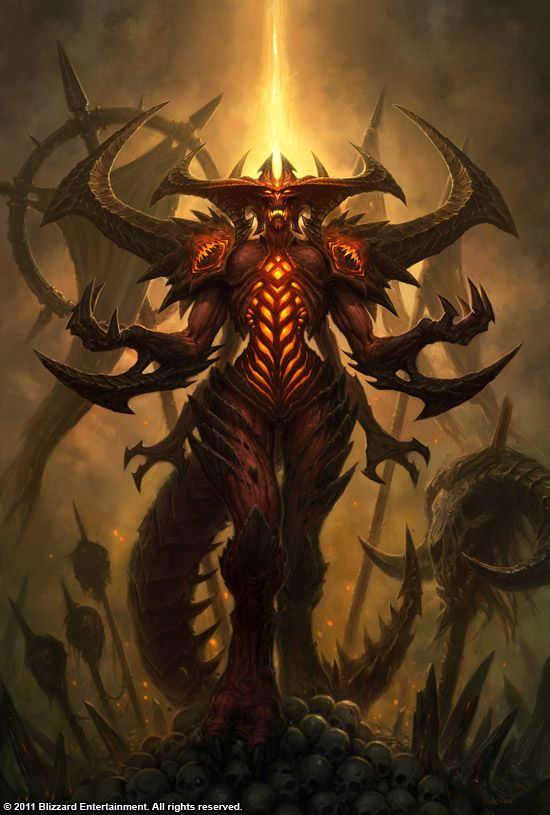
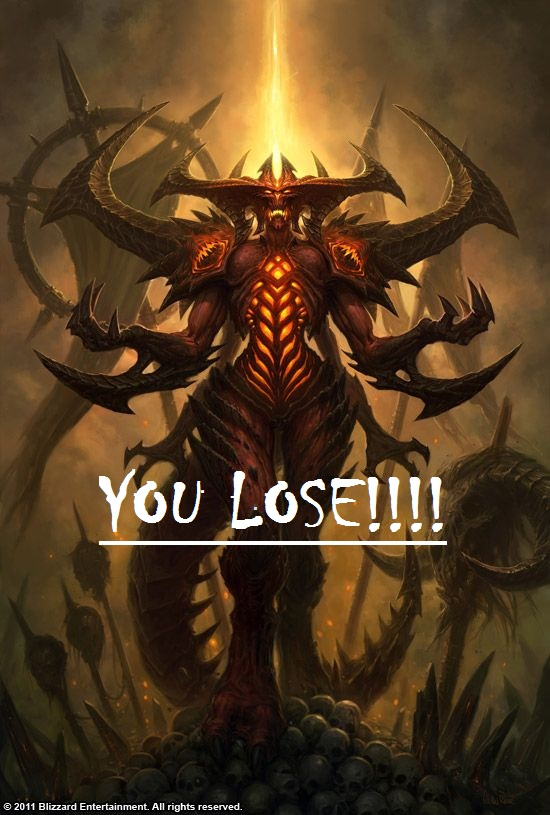
added more js, not working

Changed region(s): [[0.1855, 0.5828, 0.8036, 0.6748]]

diff --git a/assets/javascript/game.js b/assets/javascript/game.js
@@ -16,7 +16,7 @@ var remainingLetters = nextWord.length;
 
 // Sets the number of total guesses you have
 var guessTotal = nextWord.length + 5;
-document.querySelector(".guess-remaining").innerHTML = guessTotal;
+document.querySelector("#guess-remaining").innerHTML = guessTotal;
 // Sets up an array of underlines equal to the length of nextWord
 var answerArray = [];
 for (i = 0; i < nextWord.length; i++) {
@@ -29,35 +29,42 @@ for (i = 0; i < nextWord.length; i++) {
 
 
   // Will loop as long as there are letters unguessed in nextWord
-  if (remainingLetters > 0 && guessLetters.length < guessTotal) {
   
-  function keyPress(logAnswer) {
+function keyPress() {
     // Determines which key was pressed
     document.onkeyup = function (event) {
       var userGuess = event.key.toUpperCase();
+      
       // Checks if guess is in nextWord and if it is then add it to our answer and subtract from the remaining letters to guess
       for (var j = 0; j < nextWord.length; j++) {
         if (nextWord[j] === userGuess) {
-          answerString[j].push(userGuess);
+          answerArray[j] = userGuess;
           remainingLetters--;
-        }
-        else {
-          // Add incorrect guesses to an array
-          guessLetters.push(userGuess);
-        }
+        }   
       }
-      console.log(userGuess);
       guessTotal--;
-      console.log(guessTotal); 
+      guessLetters.push(userGuess);
     }
-  }
+  
   console.log(remainingLetters);
   console.log(answerArray);
   console.log(guessLetters);
+
+ /* if (remainingLetters < 1) {
+    document.getElementById("current-word").innerHTML = answerString;
+    wins++
+    document.querySelector("#win-total").innerHTML = wins;
+  }
+
+  else if (guessTotal < 1) {
+    var wrapper = document.querySelector(".wrapper");
+    wrapper.setAttribute("src", "../images/diablo.jpg");
+  }
+
+  else {
+    document.getElementById("current-word").innerHTML = answerString;
+    document.querySelector("#guess-letters").innerHTML = guessLetters.join(" ");
+  }*/
 }
 
 keyPress();
-// Will use to make first letter uppercase
-function capitalizeFirstLetter(string) {
-  return string.charAt(0).toUpperCase() + string.slice(1);
-}

diff --git a/index.html b/index.html
@@ -16,15 +16,16 @@
       <h2 class="text-center mb-0" id="diablo">Diablo</h2>
       <h1 class="text-center" id="hangman">HANGMAN</h1>
     </div>
-    <div class="container">
+    <div class="container" id="game">
       <p class="text-center mt-5">PRESS ANY KEY TO GET STARTED!</p>
       <p class="text-center">WINS:</p>
       <div class="text-center pb-2" id="win-total"></div>
       <p class="text-center">CURRENT WORD</p>
       <h3 class="text-center" id="current-word"></h3>
       <p class="text-center">NUMBER OF GUESSES REMAINING</p>
-      <h3 class="guess-remaining text-center"></h3>
+      <h3 class="text-center" id="guess-remaining"></h3>
       <p class="text-center">LETTERS ALREADY GUESSED</p>
+      <h3 class="text-center" id="guess-letters"></h3>
     </div>
   </div>
   <footer class="container-fluid text-center mt-4 py-3">
